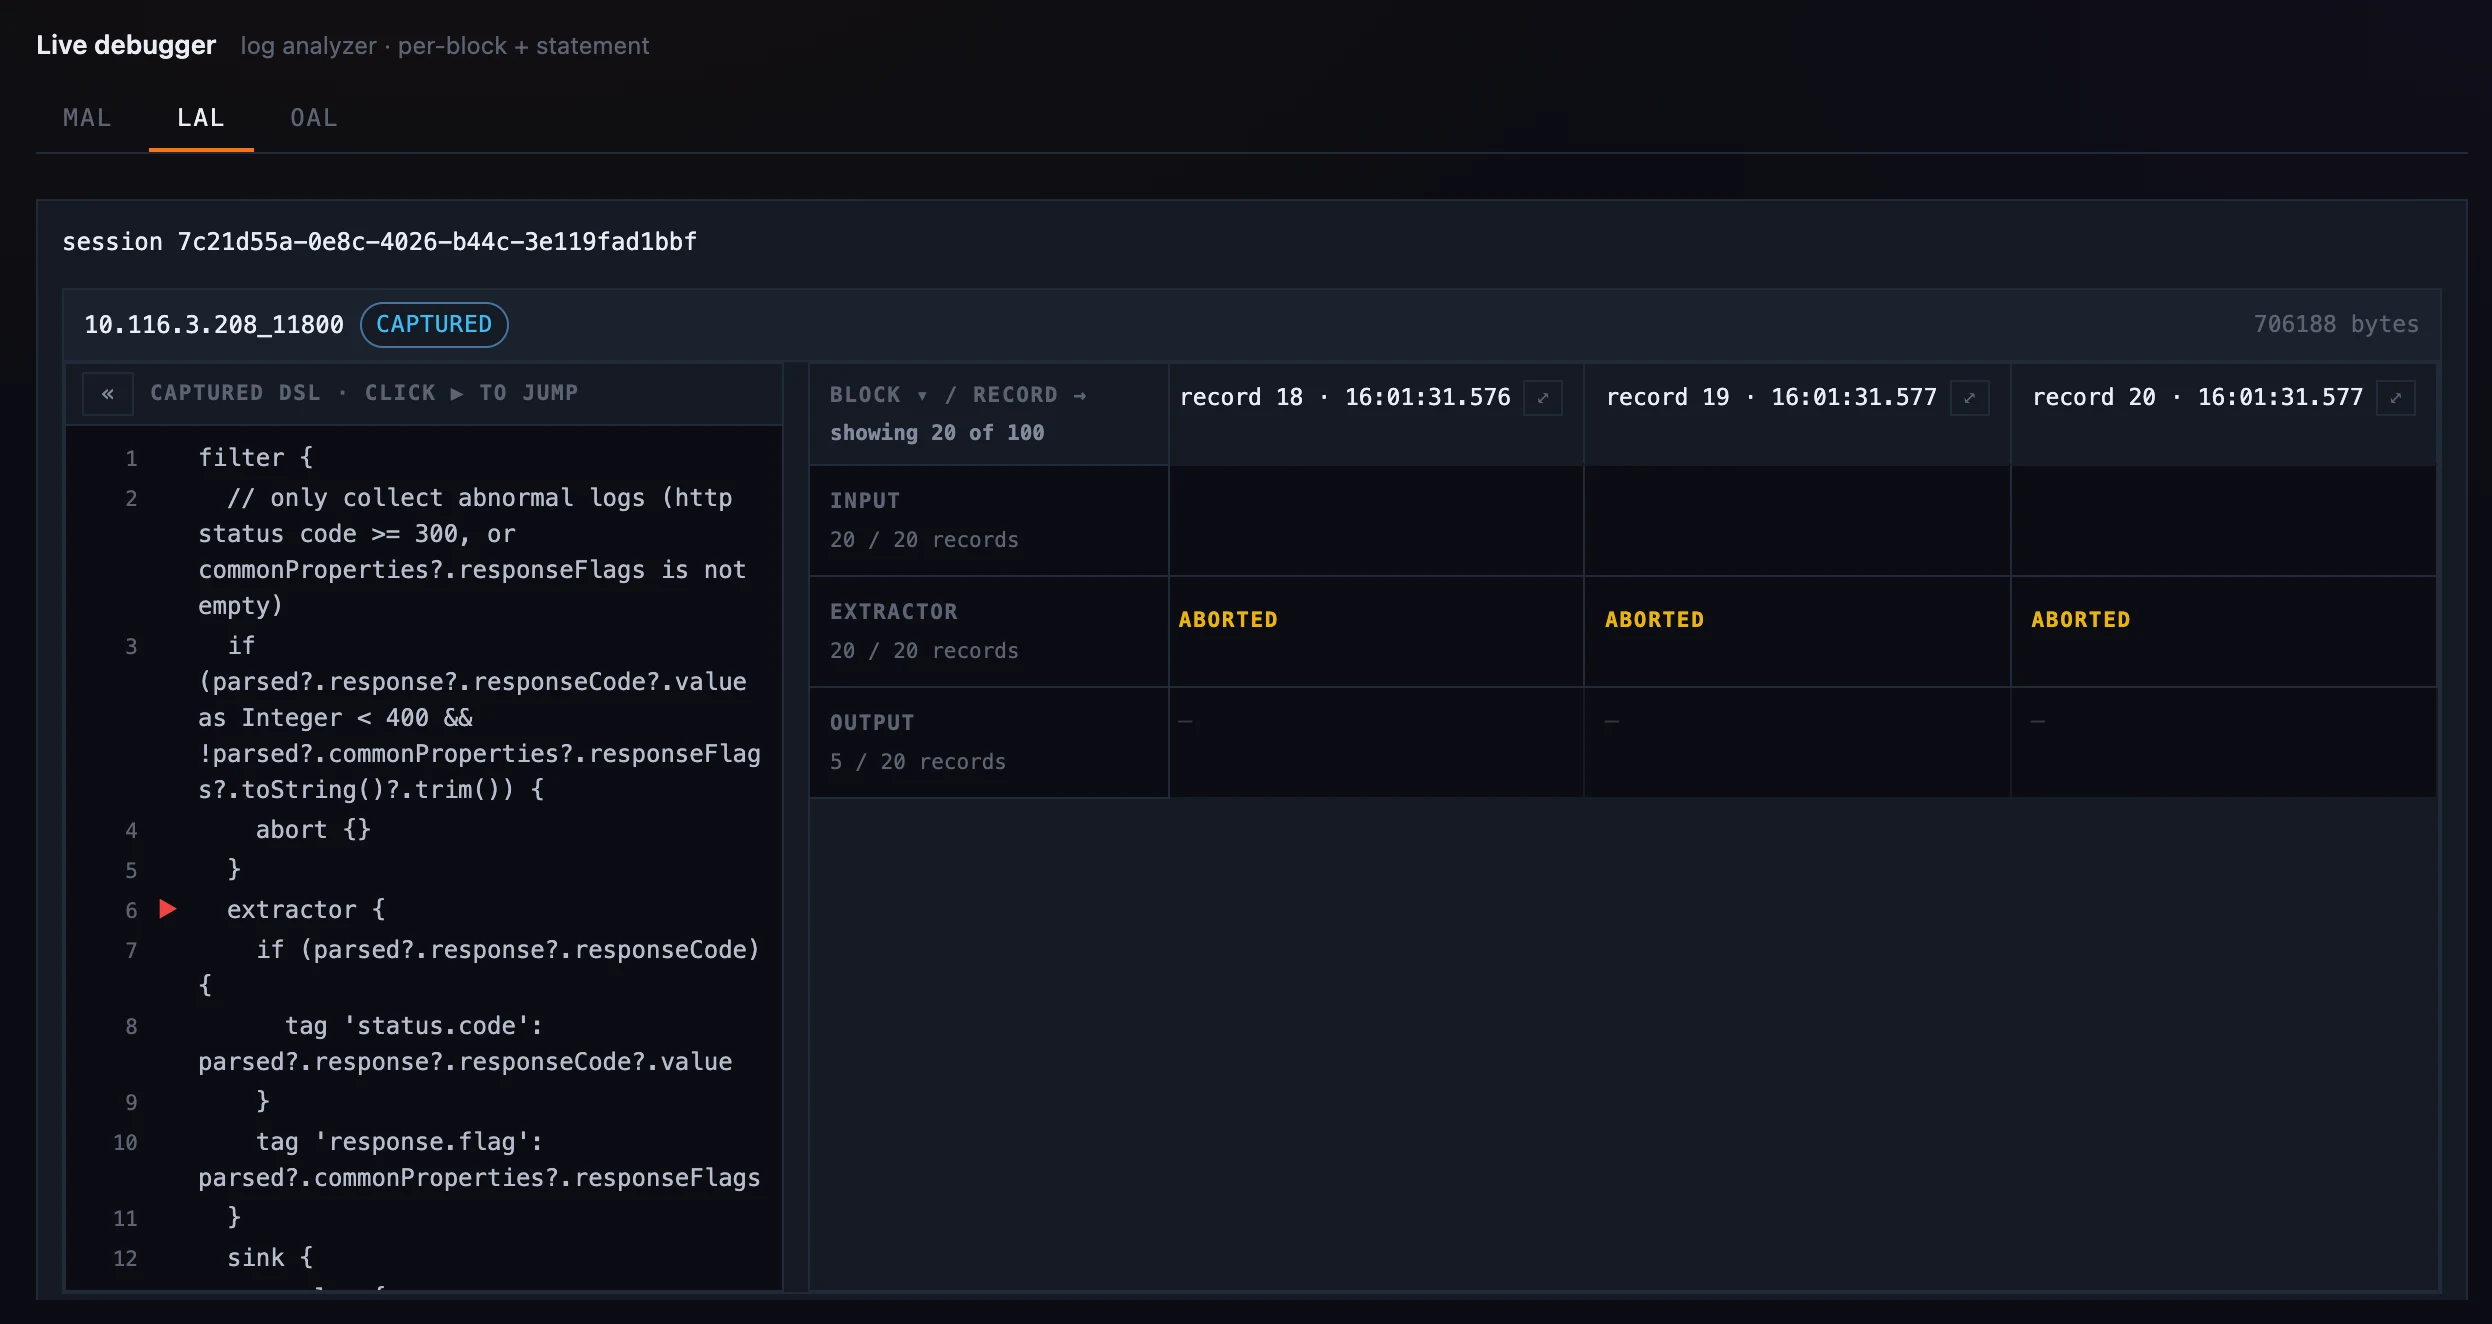
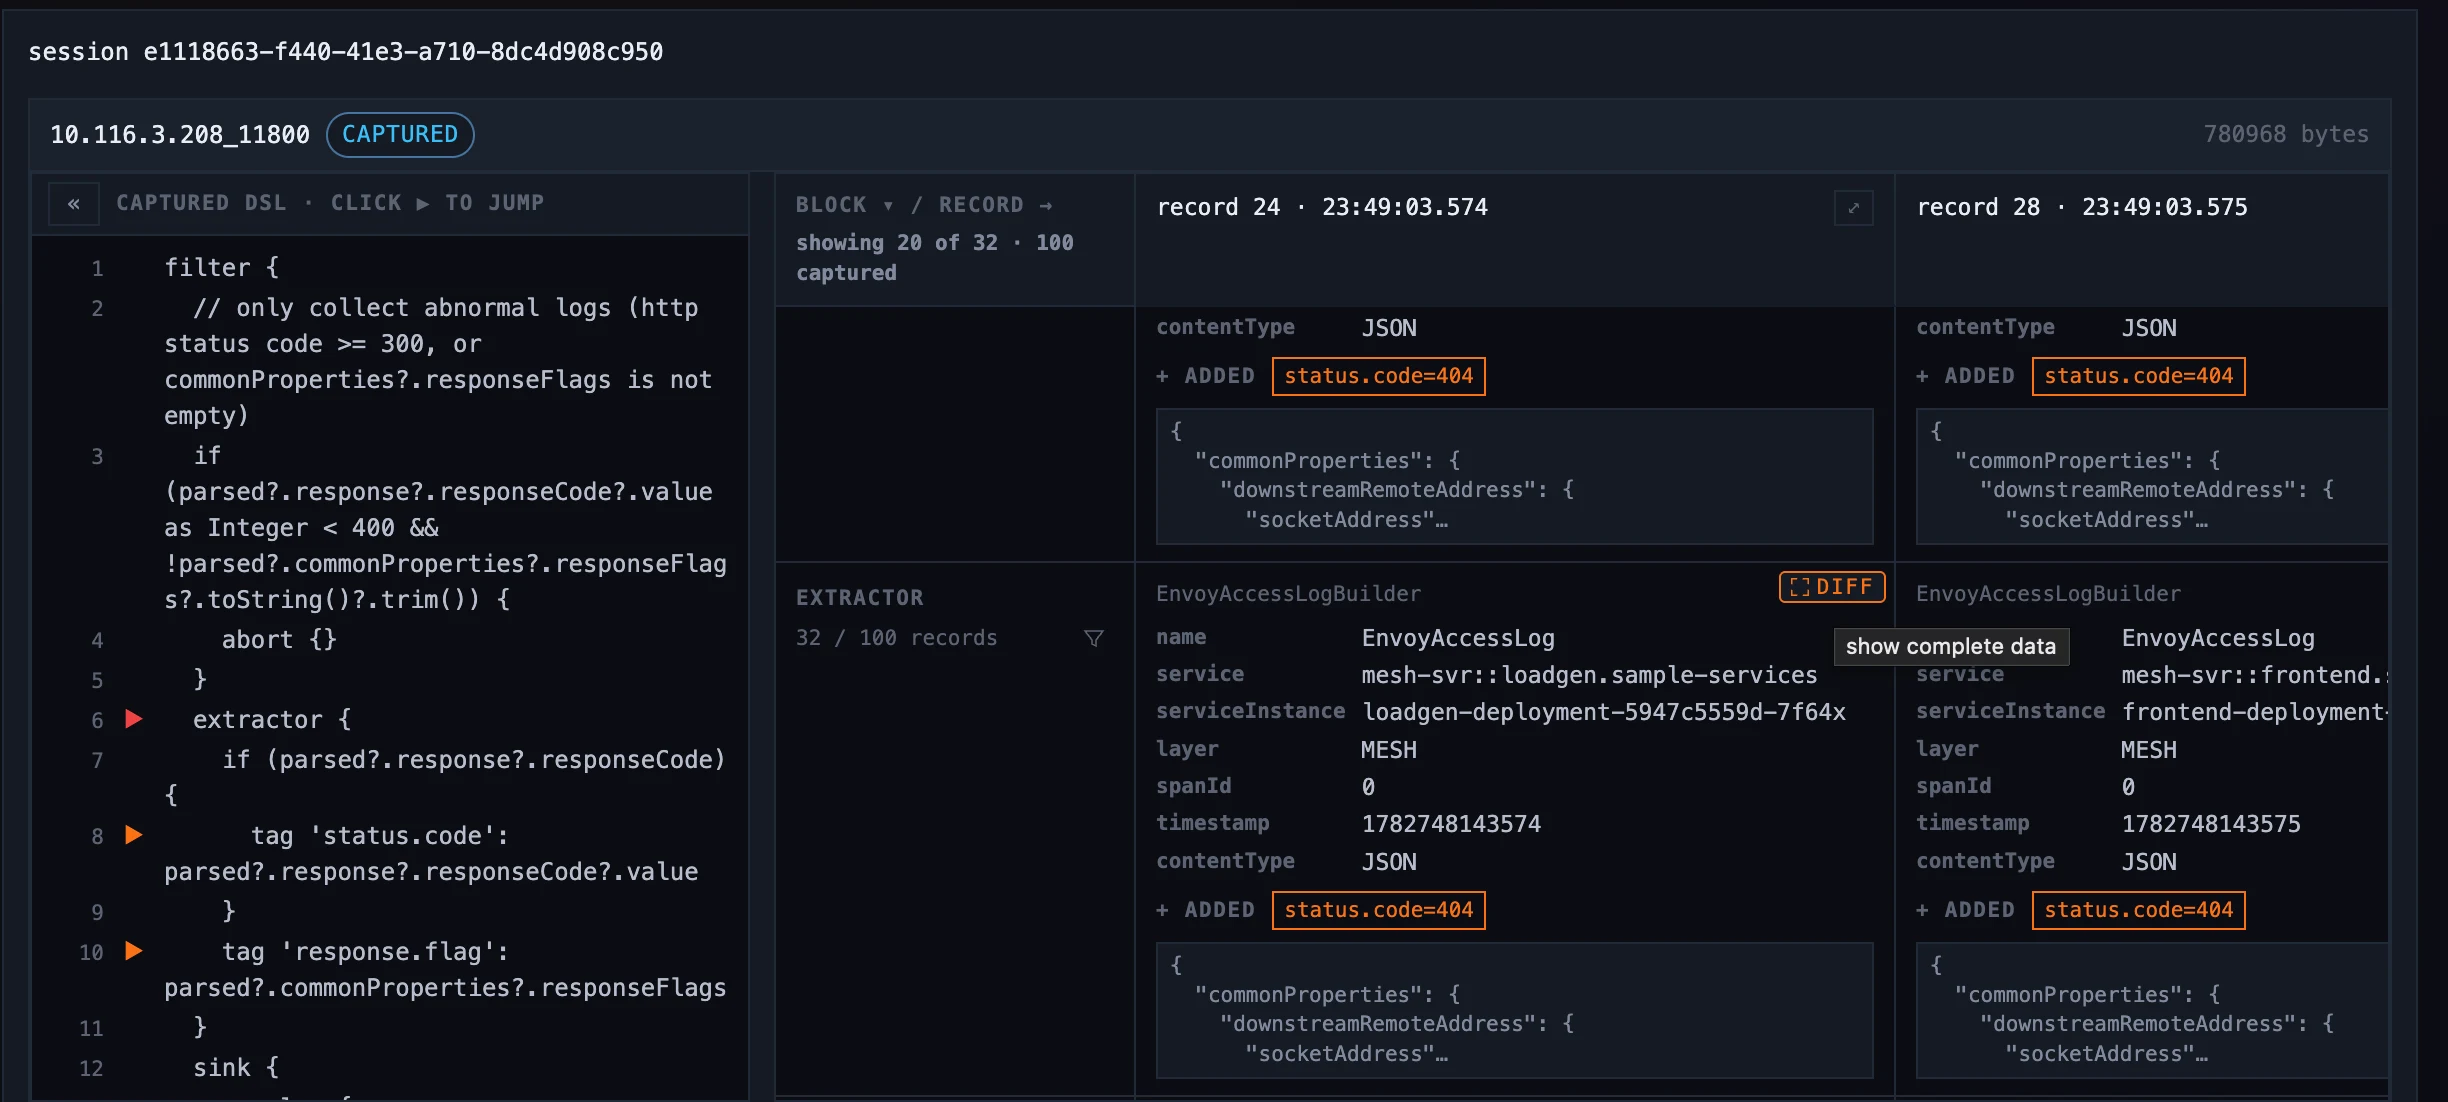
Blog: refresh P11 LAL figure and add the record-detail popout (#880)
The LAL matrix screenshot is updated to show the extractor adding
status.code to each abnormal record (with the diff view), and a new
figure shows the "show complete data" popout — a record's full raw
payload with the Compare-with selector. EN and CN posts both adopt it.

diff --git a/content/zh/2026-06-29-horizon-ui-runtime-rules-and-live-debugging/index.md b/content/zh/2026-06-29-horizon-ui-runtime-rules-and-live-debugging/index.md
@@ -51,10 +51,13 @@ Live Debugger 按分析语言分成三个标签页，因为三种规则处理的
 ![图 5：一组 MAL sample 展开后的 diff 视图：COMMON 区块里的共享 label 被淡化，每个 sample 只高亮两个不同 label。](/screenshots/horizon-0.7.0/p11-runtime-05-mal-diff.webp)
 图 5：MAL → metrics：sample 按 metric 分组，diff 会淡化 16 个所有样本共有的 label，只高亮不同的两个 label（`group`、`pod_name`）。四条非常相似的时序因此能一眼区分。</br>
 
-**LAL → logs。** 每条捕获到的 log record 是一列，每个 DSL block（或 statement）是一行，所以整个采集结果会变成一个矩阵。你可以看到哪些记录被 `filter` **aborted**，也能看到通过 filter 的记录被 `extractor` 提取出了什么。
+**LAL → logs。** 每条捕获到的 log record 是一列，每个 DSL block（或 statement）是一行，所以整个采集结果会变成一个矩阵。你可以看到哪些记录被 `filter` **aborted**，也能看到通过 filter 的记录被 `extractor` 提取出了什么；点开任意一个格子，还能查看这条记录的完整内容，并和另一条记录逐字段对比。
 
-![图 6：LAL 标签页左侧是捕获规则，右侧是按 record 和 block 组成的矩阵；被 filter 丢弃的记录显示为 aborted cell。](/screenshots/horizon-0.7.0/p11-runtime-06-lal-matrix.webp)
-图 6：LAL → logs：每条捕获记录是一列，每个 DSL block 是一行。这个 filter 会丢弃正常日志，只让异常日志继续往下走，再由 extractor 提取 `status.code` 和 `response.flag`。</br>
+![图 6：LAL 矩阵——左侧是捕获规则，右侧按 record 和 block 排开；extractor 行显示它给每条异常记录打上的 status.code 标签。](/screenshots/horizon-0.7.0/p11-runtime-06-lal-matrix.webp)
+图 6：LAL → logs：每条捕获记录是一列，每个 DSL block 是一行。`filter` 会丢弃正常日志；对通过的异常日志，`extractor` 行会以 diff 的形式显示它新增的标签（这里是 `status.code=404`）。</br>
+
+![图 7：弹窗以原始 JSON 展示某条记录的完整内容（一条 Envoy access log），并带有“与谁对比”的选择器，旁边还能看到完整的 DSL。](/screenshots/horizon-0.7.0/p11-runtime-06-lal-matrix-2.webp)
+图 7：点击格子上的“show complete data”，即可查看整条捕获记录的原始内容（这里是一条 Envoy access log），并通过 **Compare with** 选择器与其他任意记录逐字段对比。</br>
 
 ## 它在哪里运行
 

diff --git a/content/blog/2026-06-29-horizon-ui-runtime-rules-and-live-debugging/index.md b/content/blog/2026-06-29-horizon-ui-runtime-rules-and-live-debugging/index.md
@@ -47,10 +47,13 @@ Figure 4: OAL → traces — a real segment from `agent::gateway` (latency 38, s
 ![Figure 5: A MAL sample group expanded into a diff view, with a dimmed COMMON block of shared labels and only two labels highlighted per sample.](/screenshots/horizon-0.7.0/p11-runtime-05-mal-diff.webp)
 Figure 5: MAL → metrics — samples grouped by metric, with a diff that dims the 16 labels every sample shares and lights only the two that differ (`group`, `pod_name`), so four near-identical series read apart at a glance.</br>
 
-**LAL → logs.** Each captured log record becomes a column and each DSL block (or statement) a row, so the whole capture reads as a matrix: you can see which records the `filter` **aborted** and what the `extractor` pulled out of the ones that passed.
+**LAL → logs.** Each captured log record becomes a column and each DSL block (or statement) a row, so the whole capture reads as a matrix: you can see which records the `filter` **aborted** and what the `extractor` pulled out of the ones that passed — and click any cell to open the record in full and compare it against another.
 
-![Figure 6: The LAL tab showing the captured rule on the left and a matrix of records by block on the right, with aborted cells where the filter dropped records.](/screenshots/horizon-0.7.0/p11-runtime-06-lal-matrix.webp)
-Figure 6: LAL → logs — every captured record a column, every DSL block a row. This filter aborts the normal logs (only abnormal ones pass) before the extractor pulls out `status.code` and `response.flag`.</br>
+![Figure 6: The LAL matrix — the captured rule on the left, records by block on the right, the extractor cells showing the status.code tag it added to each abnormal record.](/screenshots/horizon-0.7.0/p11-runtime-06-lal-matrix.webp)
+Figure 6: LAL → logs — every captured record is a column, every DSL block a row. The `filter` aborts the normal logs; for each abnormal one that passes, the `extractor` row shows the tag it added (`status.code=404`) as a diff over the raw record.</br>
+
+![Figure 7: A popout showing one record's complete captured data as raw JSON, with a "compare with" selector, alongside the full DSL.](/screenshots/horizon-0.7.0/p11-runtime-06-lal-matrix-2.webp)
+Figure 7: "Show complete data" opens a record in full — the entire raw log payload (here an Envoy access log) — with a **Compare with** selector to diff it field-by-field against any other captured record.</br>
 
 ## Where it runs
 
